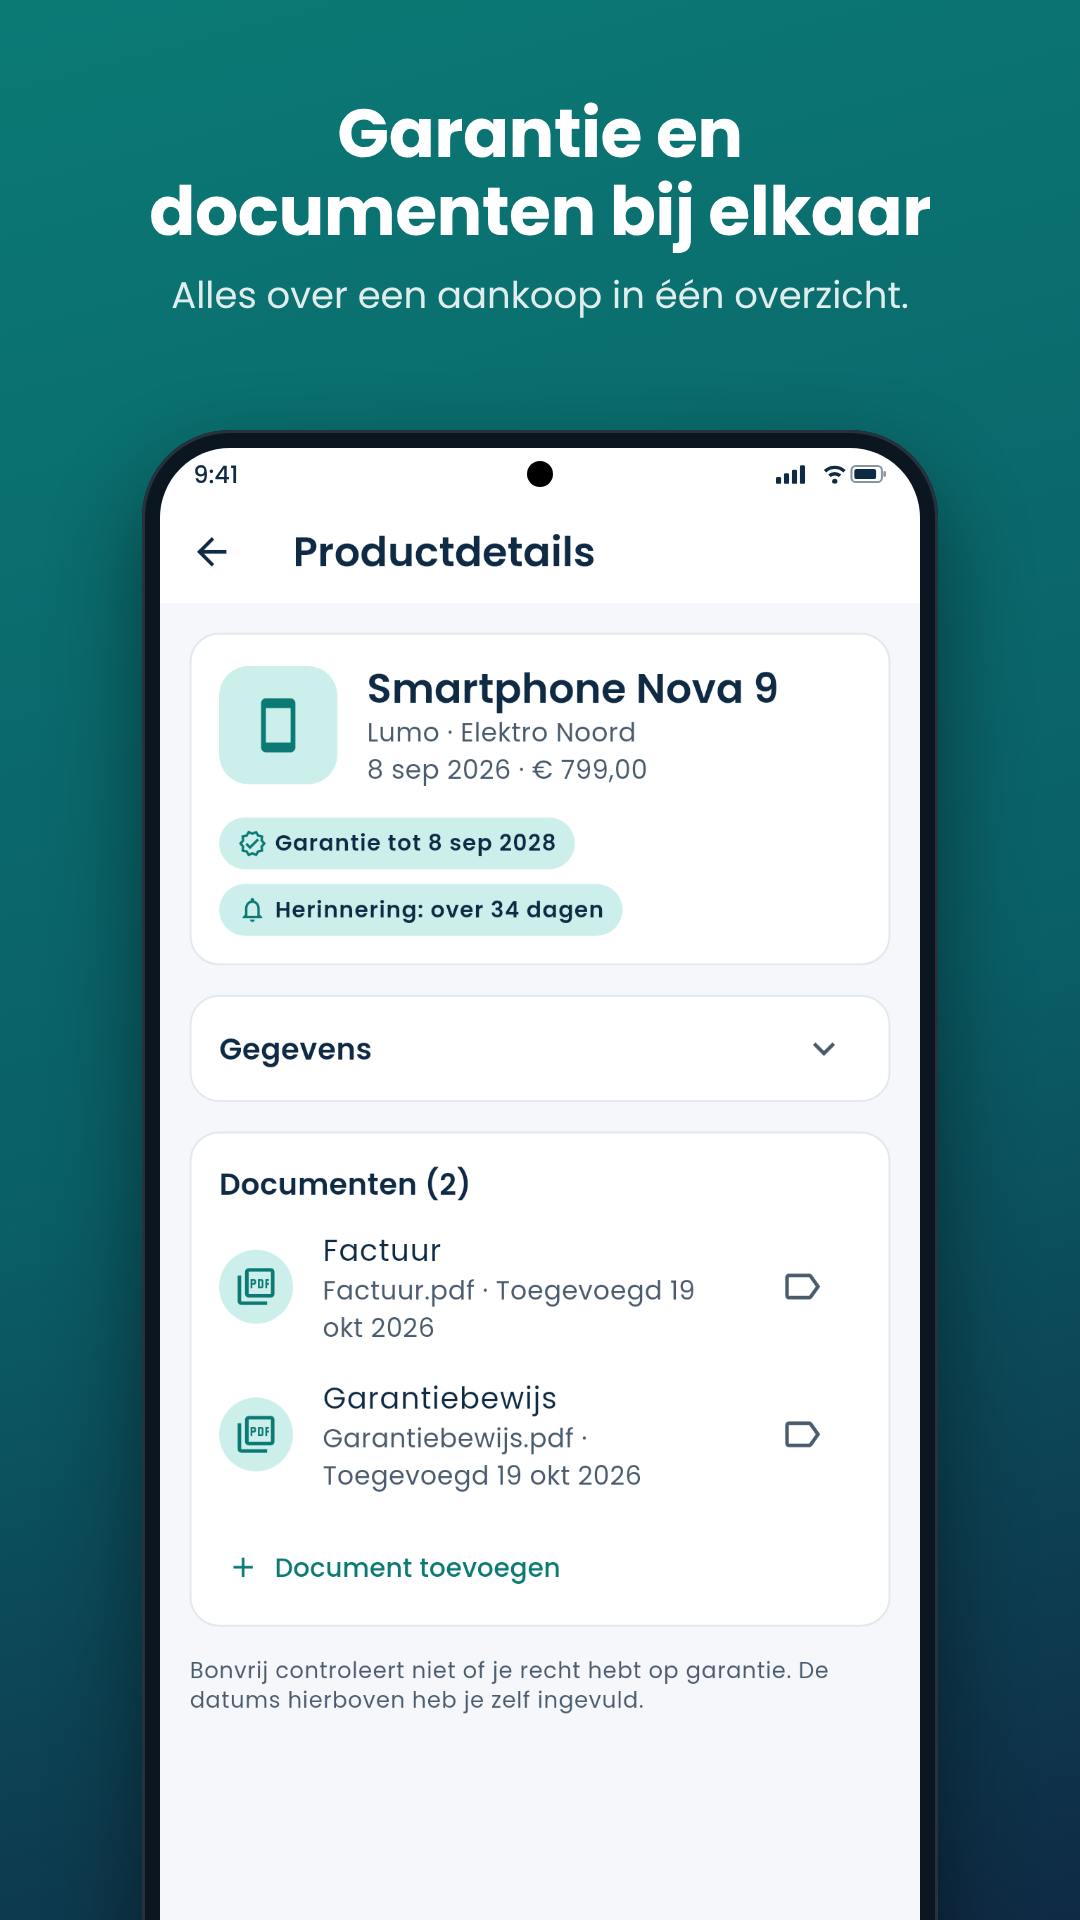
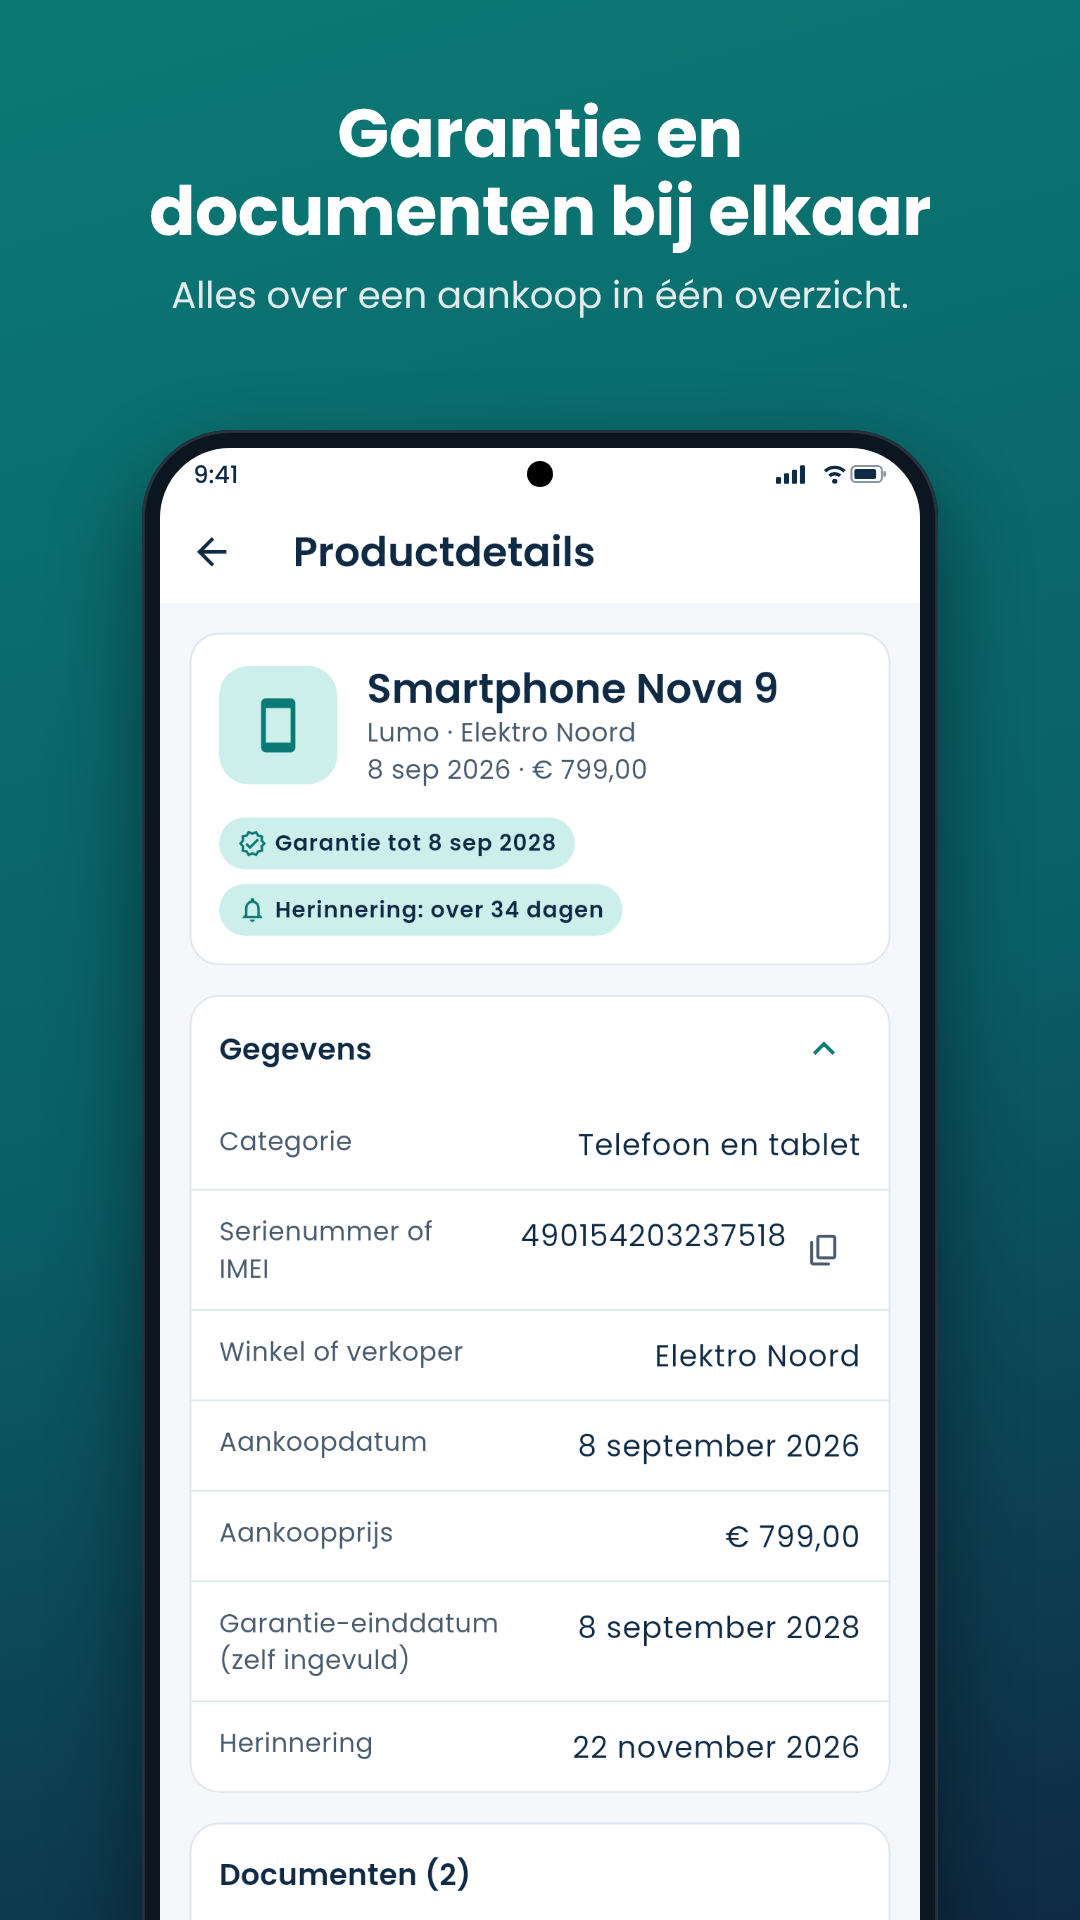
Serienummer: documentatie, winkelafbeeldingen bijgewerkt, build 1.0.0+2
Claude-Session: https://claude.ai/code/session_01XbXMMiE2NjFzHgv4o9srSF

diff --git a/docs/beslissingen.md b/docs/beslissingen.md
@@ -277,6 +277,17 @@ Elke beslissing met datum, keuze en reden. Nieuwe beslissingen onderaan toevoege
   KvK-inschrijving, D-U-N-S en openbaar adres; heroverwegen als Bonvrij Plus komt).
 - Blokkade iOS: het team heeft nog geen geregistreerd toestel; nodig is één keer een iPhone via
   een datakabel (Lightning naar USB-C) aan Xcode koppelen.
+
+## B19: Serienummer of IMEI per product (2026-11-03)
+
+- Wens van de gebruiker: bij een verzekeringsclaim het serienummer/IMEI samen met de bon hebben.
+- **Eén optioneel veld** "Serienummer of IMEI" (max. 64 tekens), databasemigratie 3
+  (`products.serial_number`). Bestaande producten houden een leeg veld.
+- Op de productpagina met kopieerknop; doorzoekbaar; kolom in de CSV-export.
+- Herkenning alleen bij een label ("IMEI", "S/N", "Serienummer", "Serial No."). Een IMEI met kloppend
+  Luhn-controlecijfer = hoge zekerheid; anders onzeker. Zonder label wordt niets gegokt.
+- In het formulier een niet-blokkerende waarschuwing bij een IMEI met een fout controlecijfer.
+- Tegelijk: labels van invoervelden staan altijd boven het vak (thema), op verzoek van de gebruiker.
 ## Openstaande risico's
 
 | Risico | Aanpak |

diff --git a/docs/voortgang.md b/docs/voortgang.md
@@ -336,6 +336,14 @@ Nog open: upload-sleutel voor Android, ontwikkelaarsaccounts,
 privacymanifest iOS, test op een echte iPhone, 12 testers voor Google Play.
 Zie de [publicatiechecklist](publicatie-checklist.md).
 
+## Na publicatievoorbereiding: serienummer of IMEI ✅ (2026-11-03)
+
+- Optioneel veld per product, met kopieerknop, zoeken, export en herkenning op facturen (B19).
+- Labels van invoervelden altijd boven het vak.
+- Gecontroleerd met automatische tests (opslag en migratie, invoer, zoeken, export, herkenning,
+  schermen) en schermafbeeldingen; door de gebruiker goedgekeurd op basis van de schermafbeeldingen.
+- Buildnummer verhoogd naar `1.0.0+2` voor de volgende upload.
+
 ## MVP: definitie van klaar
 
 | Eis uit het projectplan | Status |
